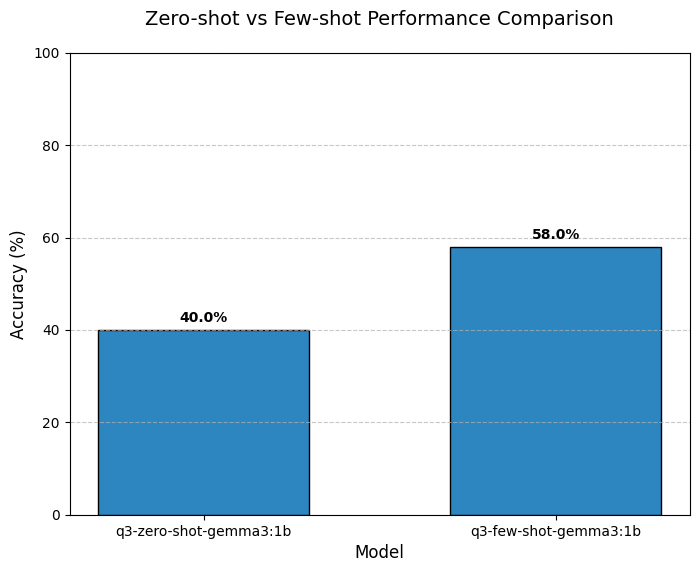
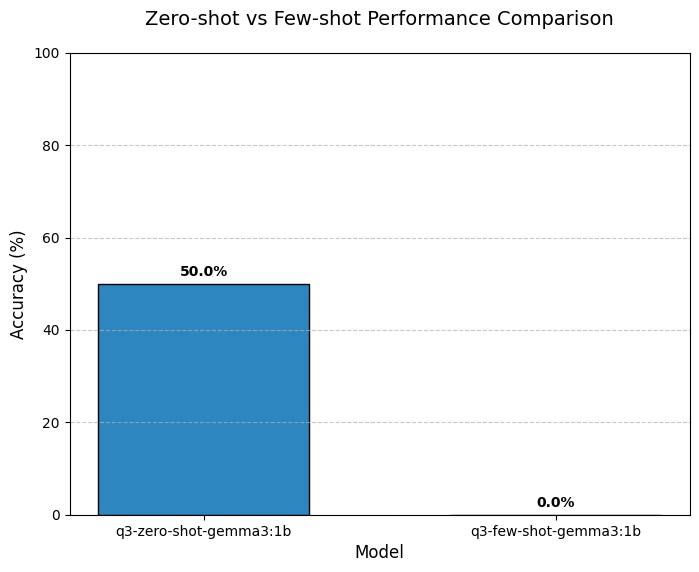
Refactor - merge one-shot with few-shot experiments into one class.

Changed region(s): [[0.6309, 0.3864, 0.9614, 0.9213], [0.1202, 0.4458, 0.4506, 0.5944]]

diff --git a/src/experiment/base_experiment.py b/src/experiment/base_experiment.py
@@ -49,6 +49,63 @@ class BaseExperiment(ABC):
             self.logger.error(f"Error generating response: {e}")
             return ""
 
+    def create_task_prompt(self, example: Dict) -> str:
+        """Create the prompt from the example data and optionally few shot examples."""
+        prompt = """
+        You are an expert Python programmer and your goal is to solve the programming tasks that will satisfy the provided tests.
+        """
+        num_examples = self.config.num_few_shot_examples
+
+        if num_examples > 0:
+            prompt += "\nExamples:"
+            start_task_id = self.config.FEW_SHOT_RANGE[0]
+
+            examples_added = 0
+            current_task_id = start_task_id
+
+            while (
+                examples_added < num_examples
+                and current_task_id <= self.config.FEW_SHOT_RANGE[1]
+            ):
+                ex = next(
+                    (ex for ex in self.data if ex["task_id"] == current_task_id), None
+                )
+
+                if not ex:
+                    self.logger.warning(
+                        f"No example for few-shot training found for task_id {current_task_id}"
+                    )
+                    current_task_id += 1
+                    continue
+
+                prompt += "\n<TASK>\n"
+                prompt += f"{ex['prompt']}"
+                prompt += "\n<TEST>"
+                prompt += "\n".join(ex["test_list"])
+                prompt += "\n<SOLUTION>\n"
+                prompt += ex["code"]
+                prompt += "\n\n"
+
+                examples_added += 1
+                current_task_id += 1
+
+            if examples_added < num_examples:
+                self.logger.warning(
+                    f"Could only find {examples_added} examples out of requested {num_examples}. "
+                    f"Reached end of available examples at task_id {current_task_id - 1}"
+                )
+
+            prompt += "Now is your turn to solve the next task. Remember to solve only this task.\n\n"
+
+        return (
+            prompt
+            + "\n<TASK>"
+            + example["prompt"]
+            + "\n<TEST>"
+            + "\n".join(example["test_list"])
+            + "\n<SOLUTION>"
+        )
+
     @abstractmethod
     def process_task(self, task_id: int, data: List[Dict]) -> Optional[Dict]:
         """Process a single MBPP task. To be implemented by specific strategies."""

diff --git a/src/experiment/factory.py b/src/experiment/factory.py
@@ -2,30 +2,14 @@ from typing import Type
 
 from src.config.experiment_config import ExperimentConfig
 from src.experiment.base_experiment import BaseExperiment
-from src.experiment.zero_shot import (
-    ZeroShotExperiment,
-    ZeroShotWithSelfImprovingSimpleExperiment,
-    ZeroShotWithDualModelSelfImprovingExperiment,
-)
-from src.experiment.few_shot import (
-    FewShotExperiment,
-    FewShotWithSelfImprovingSimpleExperiment,
-    FewShotWithDualModelSelfImprovingExperiment,
-)
+from src.experiment.single_model_experiment import SingleModelExperiment
 
 
 class ExperimentFactory:
     """Factory for creating experiment instances based on experiment name."""
 
     # Registry of available experiment types
-    EXPERIMENT_TYPES = {
-        "zero-shot": ZeroShotExperiment,
-        "zero-shot-self-improving": ZeroShotWithSelfImprovingSimpleExperiment,
-        "zero-shot-dual-model-self-improving": ZeroShotWithDualModelSelfImprovingExperiment,
-        "few-shot": FewShotExperiment,
-        "few-shot-self-improving": FewShotWithSelfImprovingSimpleExperiment,
-        "few-shot-dual-model-self-improving": FewShotWithDualModelSelfImprovingExperiment,
-    }
+    EXPERIMENT_TYPES = {"single-model": SingleModelExperiment}
 
     @classmethod
     def create_experiment(cls, config: ExperimentConfig) -> BaseExperiment:

diff --git a/src/experiment/single_model_experiment.py b/src/experiment/single_model_experiment.py
@@ -6,16 +6,8 @@ from src.experiment.base_experiment import BaseExperiment
 from src.experiment.utils import extract_code
 
 
-class ZeroShotExperiment(BaseExperiment):
+class SingleModelExperiment(BaseExperiment):
     """Implements zero-shot with repetition approach for MBPP experiment."""
-
-    def create_task_prompt(self, example: Dict) -> str:
-        """Create the prompt from the example data."""
-        return (
-            example["prompt"]
-            + "\nYour code should satisfy these tests:\n"
-            + "\n".join(example["test_list"])
-        )
 
     def process_task(self, task_id: int, data: List[Dict]) -> Optional[Dict]:
         """Process a single MBPP task using zero-shot approach."""

diff --git a/src/cli/experiment_arguments.py b/src/cli/experiment_arguments.py
@@ -19,14 +19,9 @@ def parse_experiment_arguments() -> argparse.Namespace:
         "--experiment_type",
         "-e",
         type=str,
-        default="zero-shot",
+        default="single-model",
         choices=[
-            "zero-shot",
-            "zero-shot-self-improving",
-            "zero-shot-dual-model-self-improving",
-            "few-shot",
-            "few-shot-self-improving",
-            "few-shot-dual-model-self-improving",
+            "single-model"
         ],
         help="Experiment type to run (default: zero-shot)",
     )

diff --git a/src/experiment/zero_shot/__init__.py b/src/experiment/zero_shot/__init__.py
@@ -1,13 +1,3 @@
-from .zero_shot_experiment import ZeroShotExperiment
-from .zero_shot_self_improving_experiment import (
-    ZeroShotWithSelfImprovingSimpleExperiment,
-)
-from .zero_shot_dual_model_self_improving import (
-    ZeroShotWithDualModelSelfImprovingExperiment,
-)
+# from ..single_model_experiment import SingleModelExperiment
 
-__all__ = [
-    "ZeroShotExperiment",
-    "ZeroShotWithSelfImprovingSimpleExperiment",
-    "ZeroShotWithDualModelSelfImprovingExperiment",
-]
+# __all__ = ["SingleModelExperiment"]

diff --git a/src/config/experiment_config.py b/src/config/experiment_config.py
@@ -9,7 +9,7 @@ class ExperimentConfig:
     """Configuration for MBPP experiments."""
 
     FEW_SHOT_RANGE: Tuple[int, int] = (1, 10)
-    TEST_RANGE: Tuple[int, int] = (11, 102)  # (11, 510)
+    TEST_RANGE: Tuple[int, int] = (11, 13)  # (11, 510)
     VALIDATION_RANGE: Tuple[int, int] = (511, 600)
     TRAINING_RANGE: Tuple[int, int] = (601, 974)
 

diff --git a/README.md b/README.md
@@ -109,23 +109,23 @@ uv pip install .
 
 ```bash
 # Basic zero-shot experiments
-uv run run_experiments.py --experiment_type zero-shot --experiment_name q1-zero-shot-gemma3:1b --model_name gemma3:1b
-uv run run_experiments.py --experiment_type zero-shot --experiment_name q1-zero-shot-gemma3:4b --model_name gemma3:4b
-uv run run_experiments.py --experiment_type zero-shot --experiment_name q1-zero-shot-gemma3:12b --model_name gemma3:12b
-uv run run_experiments.py --experiment_type zero-shot --experiment_name q1-zero-shot-gemma3:27b --model_name gemma3:27b
+uv run run_experiments.py --experiment_type single-model --experiment_name q1-zero-shot-gemma3:1b --model_name gemma3:1b
+uv run run_experiments.py --experiment_type single-model --experiment_name q1-zero-shot-gemma3:4b --model_name gemma3:4b
+uv run run_experiments.py --experiment_type single-model --experiment_name q1-zero-shot-gemma3:12b --model_name gemma3:12b
+uv run run_experiments.py --experiment_type single-model --experiment_name q1-zero-shot-gemma3:27b --model_name gemma3:27b
 
 # Stability analysis
-uv run run_experiments.py --experiment_type zero-shot --experiment_name q2-gemma3:1b --model_name gemma3:1b --num-iterations 5
+uv run run_experiments.py --experiment_type single-model --experiment_name q2-gemma3:1b --model_name gemma3:1b --num-iterations 5
 
 # Zero-shot vs. Few-shot Comparison
-uv run run_experiments.py --experiment_type zero-shot --experiment_name q3-zero-shot-gemma3:1b --model_name gemma3:1b --num-iterations 3
-uv run run_experiments.py --experiment_type few-shot --experiment_name q3-few-shot-gemma3:1b --model_name gemma3:1b --num-iterations 3 --num-few-shot-examples 3
+uv run run_experiments.py --experiment_type single-model --experiment_name q3-zero-shot-gemma3:1b --model_name gemma3:1b --num-iterations 3 --num-few-shot-examples 0
+uv run run_experiments.py --experiment_type single-model --experiment_name q3-few-shot-gemma3:1b --model_name gemma3:1b --num-iterations 3 --num-few-shot-examples 3
 
 # Few-shot Number of Examples Analysis
-uv run run_experiments.py --experiment_type few-shot --experiment_name q4-few-shot-1-gemma3:1b --model_name gemma3:1b --num-iterations 3 --num-few-shot-examples 1
-uv run run_experiments.py --experiment_type few-shot --experiment_name q4-few-shot-3-gemma3:1b --model_name gemma3:1b --num-iterations 3 --num-few-shot-examples 3
-uv run run_experiments.py --experiment_type few-shot --experiment_name q4-few-shot-5-gemma3:1b --model_name gemma3:1b --num-iterations 3 --num-few-shot-examples 5
-uv run run_experiments.py --experiment_type few-shot --experiment_name q4-few-shot-7-gemma3:1b --model_name gemma3:1b --num-iterations 3 --num-few-shot-examples 7
+uv run run_experiments.py --experiment_type single-model --experiment_name q4-few-shot-1-gemma3:1b --model_name gemma3:1b --num-iterations 3 --num-few-shot-examples 1
+uv run run_experiments.py --experiment_type single-model --experiment_name q4-few-shot-3-gemma3:1b --model_name gemma3:1b --num-iterations 3 --num-few-shot-examples 3
+uv run run_experiments.py --experiment_type single-model --experiment_name q4-few-shot-5-gemma3:1b --model_name gemma3:1b --num-iterations 3 --num-few-shot-examples 5
+uv run run_experiments.py --experiment_type single-model --experiment_name q4-few-shot-7-gemma3:1b --model_name gemma3:1b --num-iterations 3 --num-few-shot-examples 7
 ```
 
 ### Evaluation
